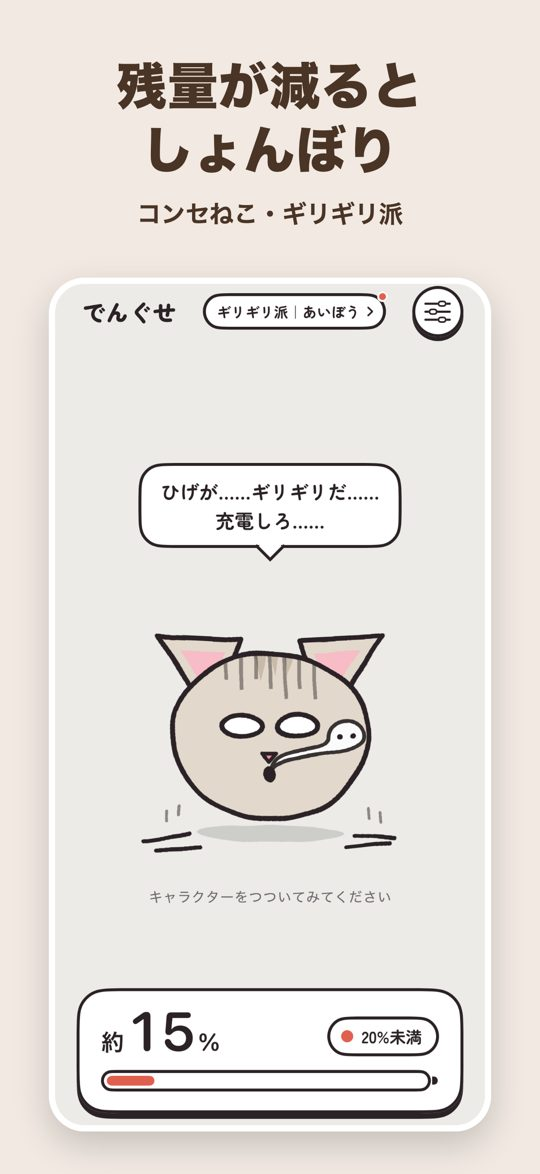
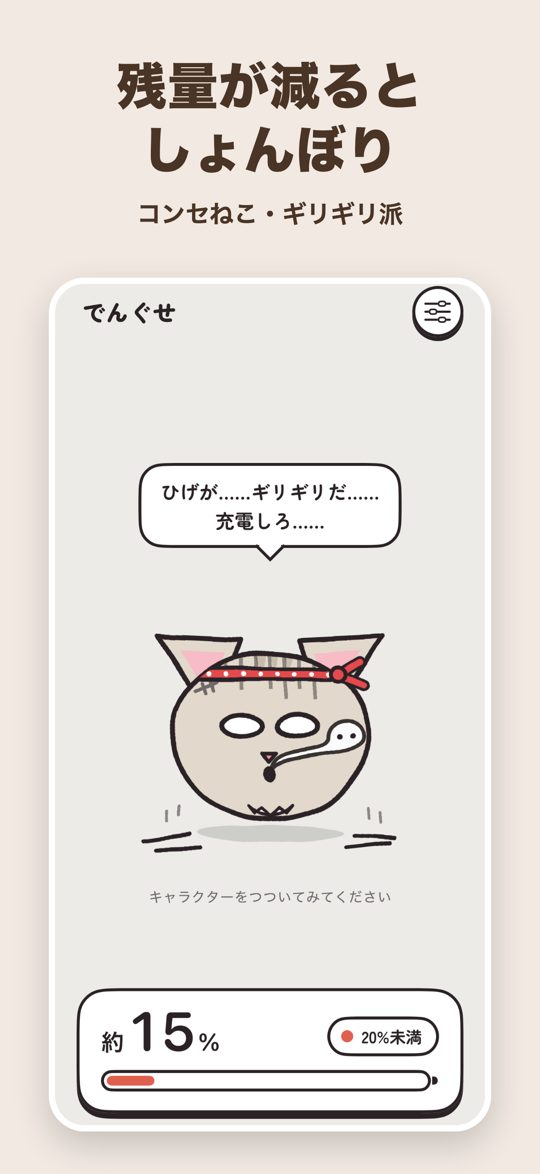
でんぐせの 4 ページを版 1.3 の内容に更新
見た目の変化と、くせ診断の廃止の質問をサポートに加え、プライバシーポリシーを改定した。
紹介ページの 3 枚目の画像を替えた。

Changed region(s): [[0.3556, 0.2453, 0.7111, 0.3066], [0.3556, 0.552, 0.6815, 0.6133], [0.4741, 0.6746, 0.5333, 0.7053]]

diff --git a/docs/denguse/index.html b/docs/denguse/index.html
@@ -4,18 +4,18 @@
 <meta charset="utf-8">
 <meta name="viewport" content="width=device-width, initial-scale=1">
 <title>でんぐせ - 性格が変わるバッテリーウィジェット</title>
-<meta name="description" content="でんぐせ（旧名 ChargeFace）は、iPhone の電池の残量と充電の状態でキャラクターの表情が変わり、充電のくせで性格も変わるアプリです。ホーム画面・ロック画面・スタンバイのウィジェットと、満充電・残量低下のお知らせ（iOS の仕組み上、遅れることがあります）に対応しています。無料です。">
+<meta name="description" content="でんぐせ（旧名 ChargeFace）は、iPhone の電池の残量と充電の状態でキャラクターの表情が変わり、充電のくせで性格と見た目も変わるアプリです。ホーム画面・ロック画面・スタンバイのウィジェットと、満充電・残量低下のお知らせ（iOS の仕組み上、遅れることがあります）に対応しています。無料です。">
 <link rel="canonical" href="https://hitorino-hito.github.io/denguse/">
 <meta name="apple-itunes-app" content="app-id=6824164964">
 <meta property="og:type" content="website">
 <meta property="og:site_name" content="でんぐせ">
 <meta property="og:title" content="でんぐせ - 性格が変わるバッテリーウィジェット">
-<meta property="og:description" content="充電のしかたで、キャラクターの性格が変わります。残量が減るとしょんぼり、充電するとごきげん。3 体から相棒を選べる、iPhone のバッテリーウィジェットです。">
+<meta property="og:description" content="充電のしかたで、キャラクターの性格と見た目が変わります。残量が減るとしょんぼり、充電するとごきげん。3 体から相棒を選べる、iPhone のバッテリーウィジェットです。">
 <meta property="og:url" content="https://hitorino-hito.github.io/denguse/">
 <meta property="og:image" content="https://hitorino-hito.github.io/denguse/img/og.png">
 <meta property="og:image:width" content="1200">
 <meta property="og:image:height" content="630">
-<meta property="og:image:alt" content="でんぐせのアイコン・名前・「性格が変わる バッテリーウィジェット」の言葉の横に、「充電のくせで性格が変わる」「ホーム画面に置ける」「くせ診断で性格が分かる」の 3 枚の画面を並べた画像">
+<meta property="og:image:alt" content="でんぐせのアイコン・名前・「性格が変わる バッテリーウィジェット」の言葉の横に、「充電のくせで性格が変わる」「ホーム画面に置ける」「充電を重ねると年季が入る」の 3 枚の画面を並べた画像">
 <meta property="og:locale" content="ja_JP">
 <meta name="twitter:card" content="summary_large_image">
 <link rel="stylesheet" href="style.css">
@@ -99,7 +99,7 @@
   "operatingSystem": "iOS 17.0 以降",
   "applicationCategory": "UtilitiesApplication",
   "inLanguage": "ja",
-  "description": "iPhone の電池の残量と充電の状態でキャラクターの表情が変わり、充電のくせで性格も変わるアプリです。",
+  "description": "iPhone の電池の残量と充電の状態でキャラクターの表情が変わり、充電のくせで性格と見た目も変わるアプリです。",
   "url": "https://hitorino-hito.github.io/denguse/",
   "downloadUrl": "https://apps.apple.com/jp/app/id6824164964",
   "offers": { "@type": "Offer", "price": "0", "priceCurrency": "JPY" }
@@ -112,17 +112,17 @@
 <div class="wrap">
 <section class="hero">
 <h1>性格が変わる、バッテリーウィジェット</h1>
-<p class="lead">でんぐせ（電池＋くせ。旧名 ChargeFace）は、iPhone の電池の残量と充電の状態に合わせて、キャラクターの表情が変わるアプリです。残量が減るとしょんぼり、充電するとごきげん。充電のしかたのくせで、キャラクターの性格も変わります。ウィジェットをホーム画面やロック画面に置けば、充電のし忘れに気づけます。ウィジェットは、残量を数字ではなく、キャラクターの表情や、せりふ・ひとこと（どれが出るかは、ウィジェットの大きさによって異なります）で伝えます。</p>
+<p class="lead">でんぐせ（電池＋くせ。旧名 ChargeFace）は、iPhone の電池の残量と充電の状態に合わせて、キャラクターの表情が変わるアプリです。残量が減るとしょんぼり、充電するとごきげん。充電のしかたのくせで、キャラクターの性格と見た目も変わります。ウィジェットをホーム画面やロック画面に置けば、充電のし忘れに気づけます。ウィジェットは、残量を数字ではなく、キャラクターの表情や、せりふ・ひとこと（どれが出るかは、ウィジェットの大きさによって異なります）で伝えます。</p>
 <a class="store-button" href="https://apps.apple.com/jp/app/id6824164964">App Store で無料ダウンロード</a>
 <p class="note">対応：iPhone（iOS 17.0 以降）／日本語のみ</p>
 </section>
 
 <ul class="gallery" role="list" tabindex="0" aria-label="アプリの画面（8 枚）">
-<li><img src="img/01-habit.jpg" width="540" height="1174" alt="充電のくせで性格が変わる。満充電でつなぎがちなら「ためこみ派」に。でんちくんの性格が「ためこみ派」、仲が「なかよし」と出たメイン画面" loading="lazy"></li>
+<li><img src="img/01-habit.jpg" width="540" height="1174" alt="充電のくせで性格が変わる。満充電でつなぎがちなら「ためこみ派」に。性格が「ためこみ派」のでんちくんが、予備の電池を付けたベルトを着けているメイン画面" loading="lazy"></li>
 <li><img src="img/02-home.jpg" width="540" height="1174" alt="ホーム画面に置ける。数字ではなく、表情とせりふで伝える。でんちくんの小・中の 2 種類のウィジェット" loading="lazy"></li>
-<li><img src="img/03-checkup.jpg" width="540" height="1174" alt="くせ診断で性格が分かる。くせの強さと、電池にやさしい使い方。コンセねこの性格が「ギリギリ派」と出て、ためこみ・ギリギリ・こまめの 3 つのくせの強さを示す画面" loading="lazy"></li>
-<li><img src="img/04-low.jpg" width="540" height="1174" alt="残量が減るとしょんぼり。性格が「ギリギリ派」のコンセねこが、残量が少ないときにひげを落としているメイン画面" loading="lazy"></li>
-<li><img src="img/05-charging.jpg" width="540" height="1174" alt="充電するとごきげん。性格が「こまめ派」のもちまるが、充電中に喜んでいるメイン画面" loading="lazy"></li>
+<li><img src="img/03-aged.jpg" width="540" height="1174" alt="充電を重ねると年季が入る。性格は小物に、年季はひびや傷に表れる。性格が「バランス派」のもちまるが、頭に桜の花を付け、体にひびが入っているメイン画面" loading="lazy"></li>
+<li><img src="img/04-low.jpg" width="540" height="1174" alt="残量が減るとしょんぼり。性格が「ギリギリ派」のコンセねこが、はちまきを締め、残量が少ないときにひげを落としているメイン画面" loading="lazy"></li>
+<li><img src="img/05-charging.jpg" width="540" height="1174" alt="充電するとごきげん。性格が「こまめ派」のもちまるが、のりを巻き、充電中に喜んでいるメイン画面" loading="lazy"></li>
 <li><img src="img/06-lock.jpg" width="540" height="1174" alt="ロック画面にも置ける。時刻の上・丸型・長方形の 3 種類。スタンバイにも対応" loading="lazy"></li>
 <li><img src="img/07-notify.jpg" width="540" height="1174" alt="残量低下をお知らせ（通知）。充電開始・満充電にも対応。iOS の仕組み上、遅れて届く場合あり" loading="lazy"></li>
 <li><img src="img/08-choose.jpg" width="540" height="1174" alt="3 体から相棒を選べる。何%で知らせるかも設定できる。アプリの設定の画面" loading="lazy"></li>
@@ -130,16 +130,18 @@
 <p class="scroll-hint" aria-hidden="true">横にスワイプすると、ほかの画面も見られます</p>
 
 <h2>充電のくせで、性格が変わる</h2>
-<p>アプリとウィジェットが記録した充電のようすから、キャラクターの性格が決まります。性格は、アプリの画面と、せりふやひとことが出るウィジェットで、キャラクターの口調に表れます。</p>
+<p>アプリとウィジェットが記録した充電のようすから、キャラクターの性格が決まります。性格は、キャラクターが身に着ける小物と、せりふやひとことの口調に表れます。</p>
 <ul class="features">
 <li><strong>ためこみ派</strong>：満充電のまま、充電器につないでおく時間が長いタイプ。</li>
 <li><strong>ギリギリ派</strong>：残量が少なくなるまで使ってから、充電することが多いタイプ。</li>
 <li><strong>こまめ派</strong>：残量が中くらいのうちに充電し、満充電の手前で外すことが多いタイプ。</li>
 <li><strong>バランス派</strong>：どのくせも目立たず、ほどよく充電しているタイプ。</li>
 </ul>
-<p>性格は、3 日分の記録がそろうと決まります（それまでは「観察中」です）。</p>
-<p>「充電のくせ診断」では、3 つのくせ（ためこみ・ギリギリ・こまめ）の強さと、電池にやさしい使い方のヒントを見られます。診断の結果は、画像で共有できます。くせ診断は、電池の劣化を調べるものではありません（電池の状態は、設定 App の「バッテリー」で確かめられます）。</p>
-<p>充電の回数に合わせて、キャラクターとの仲の段階も「はじめまして」から「なかよし」「あいぼう」「おおベテラン」へと進みます。</p>
+<p>性格は、3 日分の記録がそろうと決まります（それまでは、小物がありません）。小物は、キャラクターと性格の組み合わせごとに決まっています。たとえば、ためこみ派のでんちくんは予備の電池を腰に下げ、ギリギリ派のコンセねこは、はちまきを締めます。</p>
+
+<h2>充電を重ねると、年季が入る</h2>
+<p>充電の回数を重ねると、キャラクターの体に、傷やひびなどの変化が少しずつ増えていきます。でんちくんにはすり傷やばんそうこう、もちまるにはひび、コンセねこには傷あとや白いあごひげが増えます。変化は 3 回あり、最初の変化は、充電 50 回ほどが目安です。進み方は性格によって少し違い、ためこみ派とギリギリ派は早く、こまめ派はゆっくり進みます。</p>
+<p>性格と見た目の変化は、充電のようすから推定した遊びです。電池の劣化を調べるものではありません（電池の状態は、設定 App の「バッテリー」で確かめられます）。</p>
 
 <h2>3 体のキャラクター</h2>
 <ul class="characters" role="list">
@@ -150,20 +152,20 @@
 
 <h2>できること</h2>
 <ul class="features">
-<li>ホーム画面（小・中）、ロック画面（時刻の上・丸型・長方形）、スタンバイのウィジェットで、残量を数字ではなく、キャラクターの表情や、せりふ・ひとことで伝えます。数字を読まなくても、ひと目で充電の頃合いが分かります。せりふが出るのはホーム画面の中サイズ、ひとことが出るのはロック画面の「時刻の上」と「長方形」です。残量の数字は、iPhone のステータスバーとアプリの画面で見られます。残量低下のお知らせ（通知）にも出ることがあります。</li>
-<li>充電の開始、満充電、残量の低下（知らせる残量は 5〜50% で設定）を、キャラクターの絵が付いた通知でお知らせします。ショートカット App などの設定は要りません。お知らせは、iOS の仕組み上、数十分から数時間遅れることがあります。</li>
+<li>ホーム画面（小・中）、ロック画面（時刻の上・丸型・長方形）、スタンバイのウィジェットで、残量を数字ではなく、キャラクターの表情や、せりふ・ひとことで伝えます。数字を読まなくても、ひと目で充電の頃合いが分かります。せりふが出るのはホーム画面の中サイズ、ひとことが出るのはロック画面の「時刻の上」と「長方形」です。性格の小物と体の変化は、ウィジェットの絵にも表れます。残量の数字は、iPhone のステータスバーとアプリの画面で見られます。残量低下のお知らせ（通知）にも出ることがあります。</li>
+<li>充電の開始、満充電、残量の低下（知らせる残量は 5〜50% で設定）を、キャラクターの絵が付いた通知でお知らせします。文面は、キャラクターと性格ごとに何種類もあります。ショートカット App などの設定は要りません。お知らせは、iOS の仕組み上、数十分から数時間遅れることがあります。</li>
 <li>アプリの画面でキャラクターをつつくと、場面ごとに違うせりふで反応します。</li>
 </ul>
 
 <h2>ご利用にあたって</h2>
 <ul class="features">
-<li>無料でお使いいただけます。アカウントの登録は不要です。電池の残量と充電の記録は、端末の中だけで扱い、外部に送信しません。充電の記録は、くせ診断の画面でいつでも消せます。</li>
-<li>性格と診断の結果は、アプリとウィジェットが記録した充電のようすから推定したものです。電池の劣化の度合いを示すものではありません。</li>
-<li>キャラクターがときどき広告を見てほしいとお願いしますが、「また今度」で断れます。広告は、「広告を見る」などのボタンを押したときだけ流れる動画です。</li>
-<li>開発を応援するカンパ（任意のアプリ内課金）があります。カンパをしても、機能は変わりません。</li>
+<li>無料でお使いいただけます。アカウントの登録は不要です。電池の残量と充電の記録は、端末の中だけで扱い、外部に送信しません。充電の記録は、アプリを削除すると消えます。</li>
+<li>性格と見た目の変化は、アプリとウィジェットが記録した充電のようすから推定したものです。電池の劣化の度合いを示すものではありません。</li>
+<li>キャラクターがときどき広告を見てほしいとお願いしますが、「見送る」で断れます。広告は、「広告を見る」などのボタンを押したときだけ流れる動画です。</li>
+<li>開発を支援する、任意のアプリ内課金があります。購入しても、機能は変わりません。</li>
 <li>お知らせと同じく、ウィジェットの更新も、iOS の仕組み上、遅れることがあります（通常は 1 時間ほどで追いつきます）。アプリを開くと、すぐに最新の状態になります。</li>
 <li>低電力モードの間や、設定 App の「Appのバックグラウンド更新」がオフのときは、お知らせがほとんど届きません。当てはまるときは、アプリの設定に直し方を表示します。</li>
-<li>充電の上限（80% など）を設定しているときは、満充電のお知らせは届きません。充電器をつないですぐに外すと、充電を始めたときのお知らせが届かないことがあります。詳しくは<a href="support.html">サポート</a>をご覧ください。</li>
+<li>充電の上限（80% など）を設定しているときは、アプリの設定の「満充電とみなす残量」を同じ値に合わせると、上限に達したときに満充電のお知らせが届きます。充電器をつないですぐに外すと、充電を始めたときのお知らせが届かないことがあります。詳しくは<a href="support.html">サポート</a>をご覧ください。</li>
 </ul>
 
 <p class="cta"><a class="store-button" href="https://apps.apple.com/jp/app/id6824164964">App Store で無料ダウンロード</a></p>

diff --git a/docs/denguse/support.html b/docs/denguse/support.html
@@ -13,22 +13,34 @@
 <main>
 <div class="wrap">
 <h1>でんぐせ サポート</h1>
-<p class="lead">でんぐせ（旧名 ChargeFace）は、電池の残量と充電の状態でキャラクターの表情が変わり、充電のくせで性格が変わるアプリです。</p>
+<p class="lead">でんぐせ（旧名 ChargeFace）は、電池の残量と充電の状態でキャラクターの表情が変わり、充電のくせで性格と見た目が変わるアプリです。</p>
+
+<h2>キャラクターの見た目が変わったのはなぜですか</h2>
+<p>バージョン 1.3 から、充電のくせと充電の回数で、キャラクターの見た目が変わるようになりました。変わったことを知らせる表示はありません。見た目の変化は、アプリの画面・ウィジェット・通知の絵に出ます。</p>
+<p>性格が決まると、キャラクターが小物を身に着けます。性格が変わると、小物も替わります。性格と小物の組み合わせは、次のとおりです。</p>
+<ul>
+<li>ためこみ派：でんちくんは予備の電池を付けたベルト、もちまるは頭にのせたみかん、コンセねこは小判</li>
+<li>ギリギリ派：3 体とも、はちまき</li>
+<li>こまめ派：でんちくんはキャップにはさんだ鉛筆、もちまるはのり、コンセねこはつまようじ</li>
+<li>バランス派：でんちくんは名札、もちまるは桜の花、コンセねこは首輪と鈴</li>
+</ul>
+<p>充電の回数を重ねると、傷やひびなどの変化が、体に少しずつ増えます（変化は 3 回あり、最初の変化は充電 50 回ほどが目安です）。充電の回数は、アプリとウィジェットが動いたときに見た電池の減りを合計し、100% 分減るごとに 1 回と数えます。進み方は性格によって少し違い、ためこみ派とギリギリ派は早く、こまめ派はゆっくり進みます。数えるのは、バージョン 1.2 を使い始めてからの分です。アプリとウィジェットが動いていない間に電池が減り、次に動く前に充電された分は数えられないため、設定 App の充放電回数より少なくなります。</p>
+<p>見た目の変化は、充電のようすから推定した遊びです。電池の劣化を示すものではありません。電池の状態は、設定 App の「バッテリー」で確かめてください。体の変化を元に戻す設定はありません。</p>
+
+<h2>「充電のくせ診断」が見当たらないとき</h2>
+<p>「充電のくせ診断」の画面と、メイン画面の性格の表示、設定の「ウィジェットの表情の見かた」は、バージョン 1.3 で廃止しました。性格は、キャラクターが身に着ける小物（上の一覧）と、せりふの口調に表れます。</p>
 
 <h2>名前が ChargeFace から変わったのはなぜですか</h2>
 <p>バージョン 1.2 で、充電のくせでキャラクターの性格が変わる仕組みを加えたためです。名前の「でんぐせ」は、電池とくせを合わせた言葉です。中身は同じアプリで、設定やキャラクターはそのまま引き継がれます。</p>
 
 <h2>ウィジェットに残量の数字が出なくなったのはなぜですか</h2>
-<p>iOS がアプリに伝える残量は 5% 単位です。また、ウィジェットは遅れて更新されます。そのため、ウィジェットの数字が、ステータスバーの値とずれて見えることがありました。そこで、バージョン 1.2 から、ウィジェットには残量の数字を出さず、キャラクターの表情や、せりふ・ひとこと（どれが出るかは、ウィジェットの大きさによって異なります）で電池のようすを伝えるようにしました。残量の数字は、アプリの画面で見られます（5% 単位のため、「約85%」のように表示します）。残量低下の通知にも出ることがあります。最も正確な値は、ステータスバーで確かめられます。表情の見かたは、アプリの設定の「ウィジェットの表情の見かた」で示しています。</p>
+<p>iOS がアプリに伝える残量は 5% 単位です。また、ウィジェットは遅れて更新されます。そのため、ウィジェットの数字が、ステータスバーの値とずれて見えることがありました。そこで、バージョン 1.2 から、ウィジェットには残量の数字を出さず、キャラクターの表情や、せりふ・ひとこと（どれが出るかは、ウィジェットの大きさによって異なります）で電池のようすを伝えるようにしました。残量の数字は、アプリの画面で見られます（5% 単位のため、「約85%」のように表示します）。残量低下の通知にも出ることがあります。最も正確な値は、ステータスバーで確かめられます。</p>
 
 <h2>ウィジェットの表情がすぐに変わらないとき</h2>
 <p>iOS では、アプリが動いていない間に電池の変化を受け取る仕組みがありません。ウィジェットは、iOS がウィジェットを更新するときに電池の残量を読み直します。更新の回数は iOS が制限しているため、表情が追いつくまで通常 1 時間ほどかかり、それより遅れることもあります。アプリを開くと、すぐに最新の状態になります。</p>
 
-<h2>性格が「観察中」のまま決まらないとき</h2>
-<p>性格は、直近 14 日のうち 3 日分の充電の記録がそろったあと、次にアプリを開いたときなどに決まります。充電の記録は、アプリが動いたときと、ウィジェットが更新されるときに取ります。ホーム画面かロック画面にウィジェットを置いておくと、記録を取る機会が増えます。</p>
-
-<h2>くせ診断に出る充電の回数が、設定 App の充放電回数と違うのはなぜですか</h2>
-<p>「充電のくせ診断」に出る充電の回数は、キャラクターと過ごした期間に充電した回数の目安です。アプリとウィジェットが動いたときに見た電池の減りを合計し、100% 分減るごとに 1 回と数えます。数えるのは、バージョン 1.2 を使い始めてからの分だけです。また、アプリとウィジェットが動いていない間に電池が減り、次に動く前に充電された分は数えられません。そのため、設定 App の充放電回数より少なくなります。電池の状態は、設定 App の「バッテリー」で確かめてください。</p>
+<h2>性格が決まらないとき（小物が付かないとき）</h2>
+<p>性格は、直近 14 日のうち 3 日分の充電の記録がそろったあと、次にアプリを開いたときなどに決まります。それまでは、キャラクターに小物が付きません。充電の記録は、アプリが動いたときと、ウィジェットが更新されるときに取ります。ホーム画面かロック画面にウィジェットを置いておくと、記録を取る機会が増えます。</p>
 
 <h2>残量に「約」が付くのはなぜですか</h2>
 <p>iOS 17 以降、アプリが読み取れる電池の残量は 5% 単位です。そのため、アプリの残量は、ステータスバーの値と少し違うことがあります。そこで、「約」を付けて表示しています。残量低下の通知の残量にも、同じ理由で「約」を付けています。</p>
@@ -37,7 +49,7 @@
 <h2>通知が遅れて届くのはなぜですか</h2>
 <p>iOS では、アプリが動いていない間に電池の変化を受け取る仕組みがありません。そのため、アプリは、iOS がアプリにときどき与える実行の機会にだけ、通知を出すかどうかを判定します。この機会には、バックグラウンド更新と、iPhone が電源につながっている間だけ動く処理があります。判定の対象は、充電開始・満充電・残量低下の通知と、念押しの通知（残量低下のあとに最大 3 回届く通知）です。機会がいつ来るかは iOS が決めるため、通知は数十分から数時間遅れて届くことがあります。</p>
 <p>夜（23 時〜翌朝 5 時）に遅れて届く充電開始・満充電の通知と、夜に届く念押しの通知は、音もバナーも出さず、通知センターにだけ入ります。</p>
-<p>アプリが充電の開始を知るのも、次に動いたときです。そのため、充電を始めたあとに、念押しの通知が届くことがあります。残量低下の通知を長押しして出る「充電した」を押すと、残りの念押しの通知を止められます。</p>
+<p>アプリが充電の開始を知るのも、次に動いたときです。そのため、充電を始めたあとに、念押しの通知が届くことがあります。残量低下の通知を長押しして出る「充電しました」（バージョン 1.2 までは「充電した」）を押すと、残りの念押しの通知を止められます。</p>
 
 <h2 id="low">残量低下の通知が届かないとき</h2>
 <p>設定 App で「でんぐせ」の通知が許可されていることと、アプリの設定で「残量が20%を下回ったとき」など（数字は設定した値）がオンになっていることをご確認ください。アプリは、残量低下の通知を出すかどうかを、iOS がアプリにときどき与える実行の機会に判定します。そのため、通知が遅れて届くことがあります。次のときは、その機会がほぼ無くなるため、ほとんど届きません。当てはまるときは、アプリの設定の「通知」にも、その旨と直し方を表示します。</p>
@@ -48,8 +60,8 @@
 </ul>
 
 <h2>充電開始・満充電の通知が届かないとき</h2>
-<p>設定 App で「でんぐせ」の通知が許可されていることと、アプリの設定で「充電を始めたとき」「満充電になったとき」がオンになっていることをご確認ください。アプリは、この 2 つの通知を出すかどうかを、iOS がアプリにときどき与える実行の機会に判定します。そのため、通知が数十分から数時間遅れて届くことがあります。その機会が来る前に充電器を外すと、届きません。「Appのバックグラウンド更新」がオフの間と、低電力モードの間は、その機会がほぼ無くなるため、ほとんど届きません（直し方は、上の<a href="#low">「残量低下の通知が届かないとき」</a>と同じです）。</p>
-<p>充電の上限（80% など）を設定しているときは、満充電にならないため、満充電の通知は届きません。</p>
+<p>設定 App で「でんぐせ」の通知が許可されていることと、アプリの設定で「充電を開始したとき」（バージョン 1.2 までは「充電を始めたとき」）と「満充電になったとき」がオンになっていることをご確認ください。アプリは、この 2 つの通知を出すかどうかを、iOS がアプリにときどき与える実行の機会に判定します。そのため、通知が数十分から数時間遅れて届くことがあります。その機会が来る前に充電器を外すと、届きません。「Appのバックグラウンド更新」がオフの間と、低電力モードの間は、その機会がほぼ無くなるため、ほとんど届きません（直し方は、上の<a href="#low">「残量低下の通知が届かないとき」</a>と同じです）。</p>
+<p>充電の上限（80% など）を設定しているときは、100% にならないため、そのままでは満充電の通知が届きません。バージョン 1.3 から、アプリの設定の「通知」にある「満充電とみなす残量」を、充電の上限と同じ値に合わせると、上限に達したときに満充電の通知が届きます。</p>
 
 <h2>集中モードや時刻指定要約で通知が遅れるとき</h2>
 <p>集中モードの間や、時刻指定要約を使っているときは、通知が遅れて届くことがあります。集中モードの間も受け取りたいときは、設定 App の「集中モード」で、「でんぐせ」を、通知を許可する App に加えてください。時刻指定要約を使っていて、通知を要約にまとめずにすぐ受け取りたいときは、設定 App の「通知」→「時刻指定要約」で「でんぐせ」をオフにしてください。</p>

diff --git a/docs/denguse/privacy.html b/docs/denguse/privacy.html
@@ -13,7 +13,7 @@
 <main>
 <div class="wrap">
 <h1>でんぐせ プライバシーポリシー</h1>
-<p>でんぐせ（旧名 ChargeFace。以下「本アプリ」）は、電池の残量と充電の状態に合わせてキャラクターの表情が変わり、充電のくせでキャラクターの性格が変わるアプリです。本アプリの開発者（以下「開発者」）は、本アプリにおける情報の取り扱いを次のとおり定めます。</p>
+<p>でんぐせ（旧名 ChargeFace。以下「本アプリ」）は、電池の残量と充電の状態に合わせてキャラクターの表情が変わり、充電のくせでキャラクターの性格と見た目が変わるアプリです。本アプリの開発者（以下「開発者」）は、本アプリにおける情報の取り扱いを次のとおり定めます。</p>
 
 <h2>1. 本アプリが扱う情報</h2>
 <p>本アプリは、次の情報を端末の中だけで扱います。</p>
@@ -23,13 +23,13 @@
 <li>充電の記録から推定した、充電のくせ・性格・充電の回数</li>
 <li>本アプリの設定（選んだキャラクター、通知の設定）と、表示の履歴（直近に表示したせりふ）</li>
 <li>評価の依頼の時期を決めるための利用の記録（キャラクターをつついた回数、前回の依頼の時期など）</li>
-<li>カンパ（アプリ内課金）の取引の識別子</li>
+<li>アプリ内課金（開発への支援）の取引の識別子</li>
 <li>端末を識別するための値（Apple が提供するベンダー識別子）</li>
 </ul>
-<p>充電の記録は、キャラクターの性格と、キャラクターとの仲の段階を決めるためだけに使います。本アプリ自身は、上の情報を開発者や外部に送信せず、利用者のアカウントも作りません（広告のために Google が取得する情報は、2 項のとおりです）。ただし、「充電のくせ診断」の結果の画像は、利用者が共有を選んだときに限り、利用者が選んだ App に渡します。画像に入るのは、キャラクターの絵（電池の状態にかかわらず同じ絵）・性格・くせの強さ・キャラクターとの仲の段階・アプリの名前だけで、電池の残量・日時・充電の回数は入りません。写真ライブラリへの追加の許可が必要になるのは、利用者が共有シートからその画像を「写真」App に保存するときだけです。写真ライブラリの読み取りはしません。</p>
+<p>充電の記録は、キャラクターの性格と見た目を決めるためだけに使います。本アプリ自身は、上の情報を開発者や外部に送信せず、利用者のアカウントも作りません（広告のために Google が取得する情報は、2 項のとおりです）。バージョン 1.3 以降の本アプリは、写真ライブラリを使いません。バージョン 1.2 には、「充電のくせ診断」の結果の画像を共有する機能がありました。この画像は、利用者が共有を選んだときに限り、利用者が選んだ App に渡します。画像に入るのは、キャラクターの絵（電池の状態にかかわらず同じ絵）・性格・くせの強さ・キャラクターとの仲の段階・アプリの名前だけで、電池の残量・日時・充電の回数は入りません。写真ライブラリへの追加の許可が必要になるのは、利用者が共有シートからその画像を「写真」App に保存するときだけで、写真ライブラリの読み取りはしません。この機能は、バージョン 1.3 で削除しました。</p>
 
 <h2>2. 広告について</h2>
-<p>本アプリは、利用者が広告を見ることを選んだとき（メイン画面の「広告を見る」か、設定の「広告を見て王冠をあげる」を押したとき）に、Google の広告配信サービス（Google Mobile Ads SDK）を通じて広告を表示します。また、広告をすぐに表示できるよう、本アプリを開いている間に広告を前もって読み込みます。そのため、広告を見ないときも、本アプリは Google と通信します。</p>
+<p>本アプリは、利用者が広告を見ることを選んだとき（メイン画面の「広告を見る」か、設定の「広告を見て王冠を贈る」を押したとき。バージョン 1.2 までは「広告を見て王冠をあげる」）に、Google の広告配信サービス（Google Mobile Ads SDK）を通じて広告を表示します。また、広告をすぐに表示できるよう、本アプリを開いている間に広告を前もって読み込みます。そのため、広告を見ないときも、本アプリは Google と通信します。</p>
 <p>広告の配信と計測、広告の機能の提供と改善、および利用状況の分析のため、Google が次の情報を取得することがあります。</p>
 <ul>
 <li>端末の識別子（広告識別子など）</li>
@@ -40,13 +40,13 @@
 <p>広告識別子を利用者の追跡に使うのは、iOS の「トラッキングの許可」で利用者が許可した場合に限られます。Google による情報の取り扱いは、Google のプライバシーポリシー（<a href="https://policies.google.com/privacy" rel="noopener noreferrer">https://policies.google.com/privacy</a>）に従います。</p>
 
 <h2>3. アプリ内課金について</h2>
-<p>本アプリの「カンパ」は Apple の App Store を通じて処理されます。本アプリは購入の結果だけを受け取り、支払いに関する情報を扱いません。</p>
+<p>本アプリのアプリ内課金（開発への支援。バージョン 1.2 までの画面では「カンパ」）は、Apple の App Store を通じて処理されます。本アプリは購入の結果だけを受け取り、支払いに関する情報を扱いません。</p>
 
 <h2>4. 分析ツールについて</h2>
 <p>本アプリは、広告のための Google Mobile Ads SDK（2 項）のほかに、利用状況の分析やクラッシュの収集を行う外部のツールを使っていません。設定 App で「App デベロッパと共有」を有効にしている利用者については、開発者が Apple を通じて、クラッシュなどの診断情報を、個人を特定しない形で受け取ることがあります。</p>
 
 <h2>5. 情報の保存と削除</h2>
-<p>本アプリが端末の中に保存する情報（1 項の情報）は、本アプリを削除すると端末から消えます。約 2 週間より古い充電の記録は使いません。古い記録は、本アプリかウィジェットが記録を書くときに消します。利用者は、くせ診断の「くせの記録を消す」で、いつでも消すこともできます。充電の記録は、iPhone のバックアップに含めません。推定した性格と充電の回数は、ほかの設定と同じくバックアップに含まれますが、別の iPhone に復元したときは消します。</p>
+<p>本アプリが端末の中に保存する情報（1 項の情報）は、本アプリを削除すると端末から消えます。約 2 週間より古い充電の記録は使いません。古い記録は、本アプリかウィジェットが記録を書くときに消します。バージョン 1.2 では、くせ診断の「くせの記録を消す」でも消せます（このボタンは、バージョン 1.3 で、くせ診断とともに削除しました）。充電の記録は、iPhone のバックアップに含めません。推定した性格と充電の回数は、ほかの設定と同じくバックアップに含まれますが、別の iPhone に復元したときは消します。</p>
 <p>開発者が受け取る利用者の情報は、4 項の診断情報と、お問い合わせと請求のフォームで受け取った内容（8 項）だけです。Google が取得した情報の保存と削除は、Google のプライバシーポリシーに従います。利用者は、Google が案内する方法で、その情報の削除を依頼できます。</p>
 
 <h2>6. 同意の取り消し</h2>
@@ -62,7 +62,7 @@
 <h2>9. 改定</h2>
 <p>本ポリシーを改定したときは、このページで公表します。</p>
 
-<p class="date">制定日：2026年10月18日<br>改定日：2026年10月29日</p>
+<p class="date">制定日：2026年10月18日<br>改定日：2026年11月12日</p>
 </div>
 </main>
 <footer class="site-footer">

diff --git a/docs/denguse/tokushoho.html b/docs/denguse/tokushoho.html
@@ -4,7 +4,7 @@
 <meta charset="utf-8">
 <meta name="viewport" content="width=device-width, initial-scale=1">
 <title>でんぐせ 特定商取引法に基づく表記</title>
-<meta name="description" content="でんぐせ（旧名 ChargeFace）のカンパ（アプリ内課金）についての特定商取引法に基づく表記です。">
+<meta name="description" content="でんぐせ（旧名 ChargeFace）のアプリ内課金（開発への支援）についての特定商取引法に基づく表記です。">
 <link rel="canonical" href="https://hitorino-hito.github.io/denguse/tokushoho.html">
 <link rel="stylesheet" href="style.css">
 </head>
